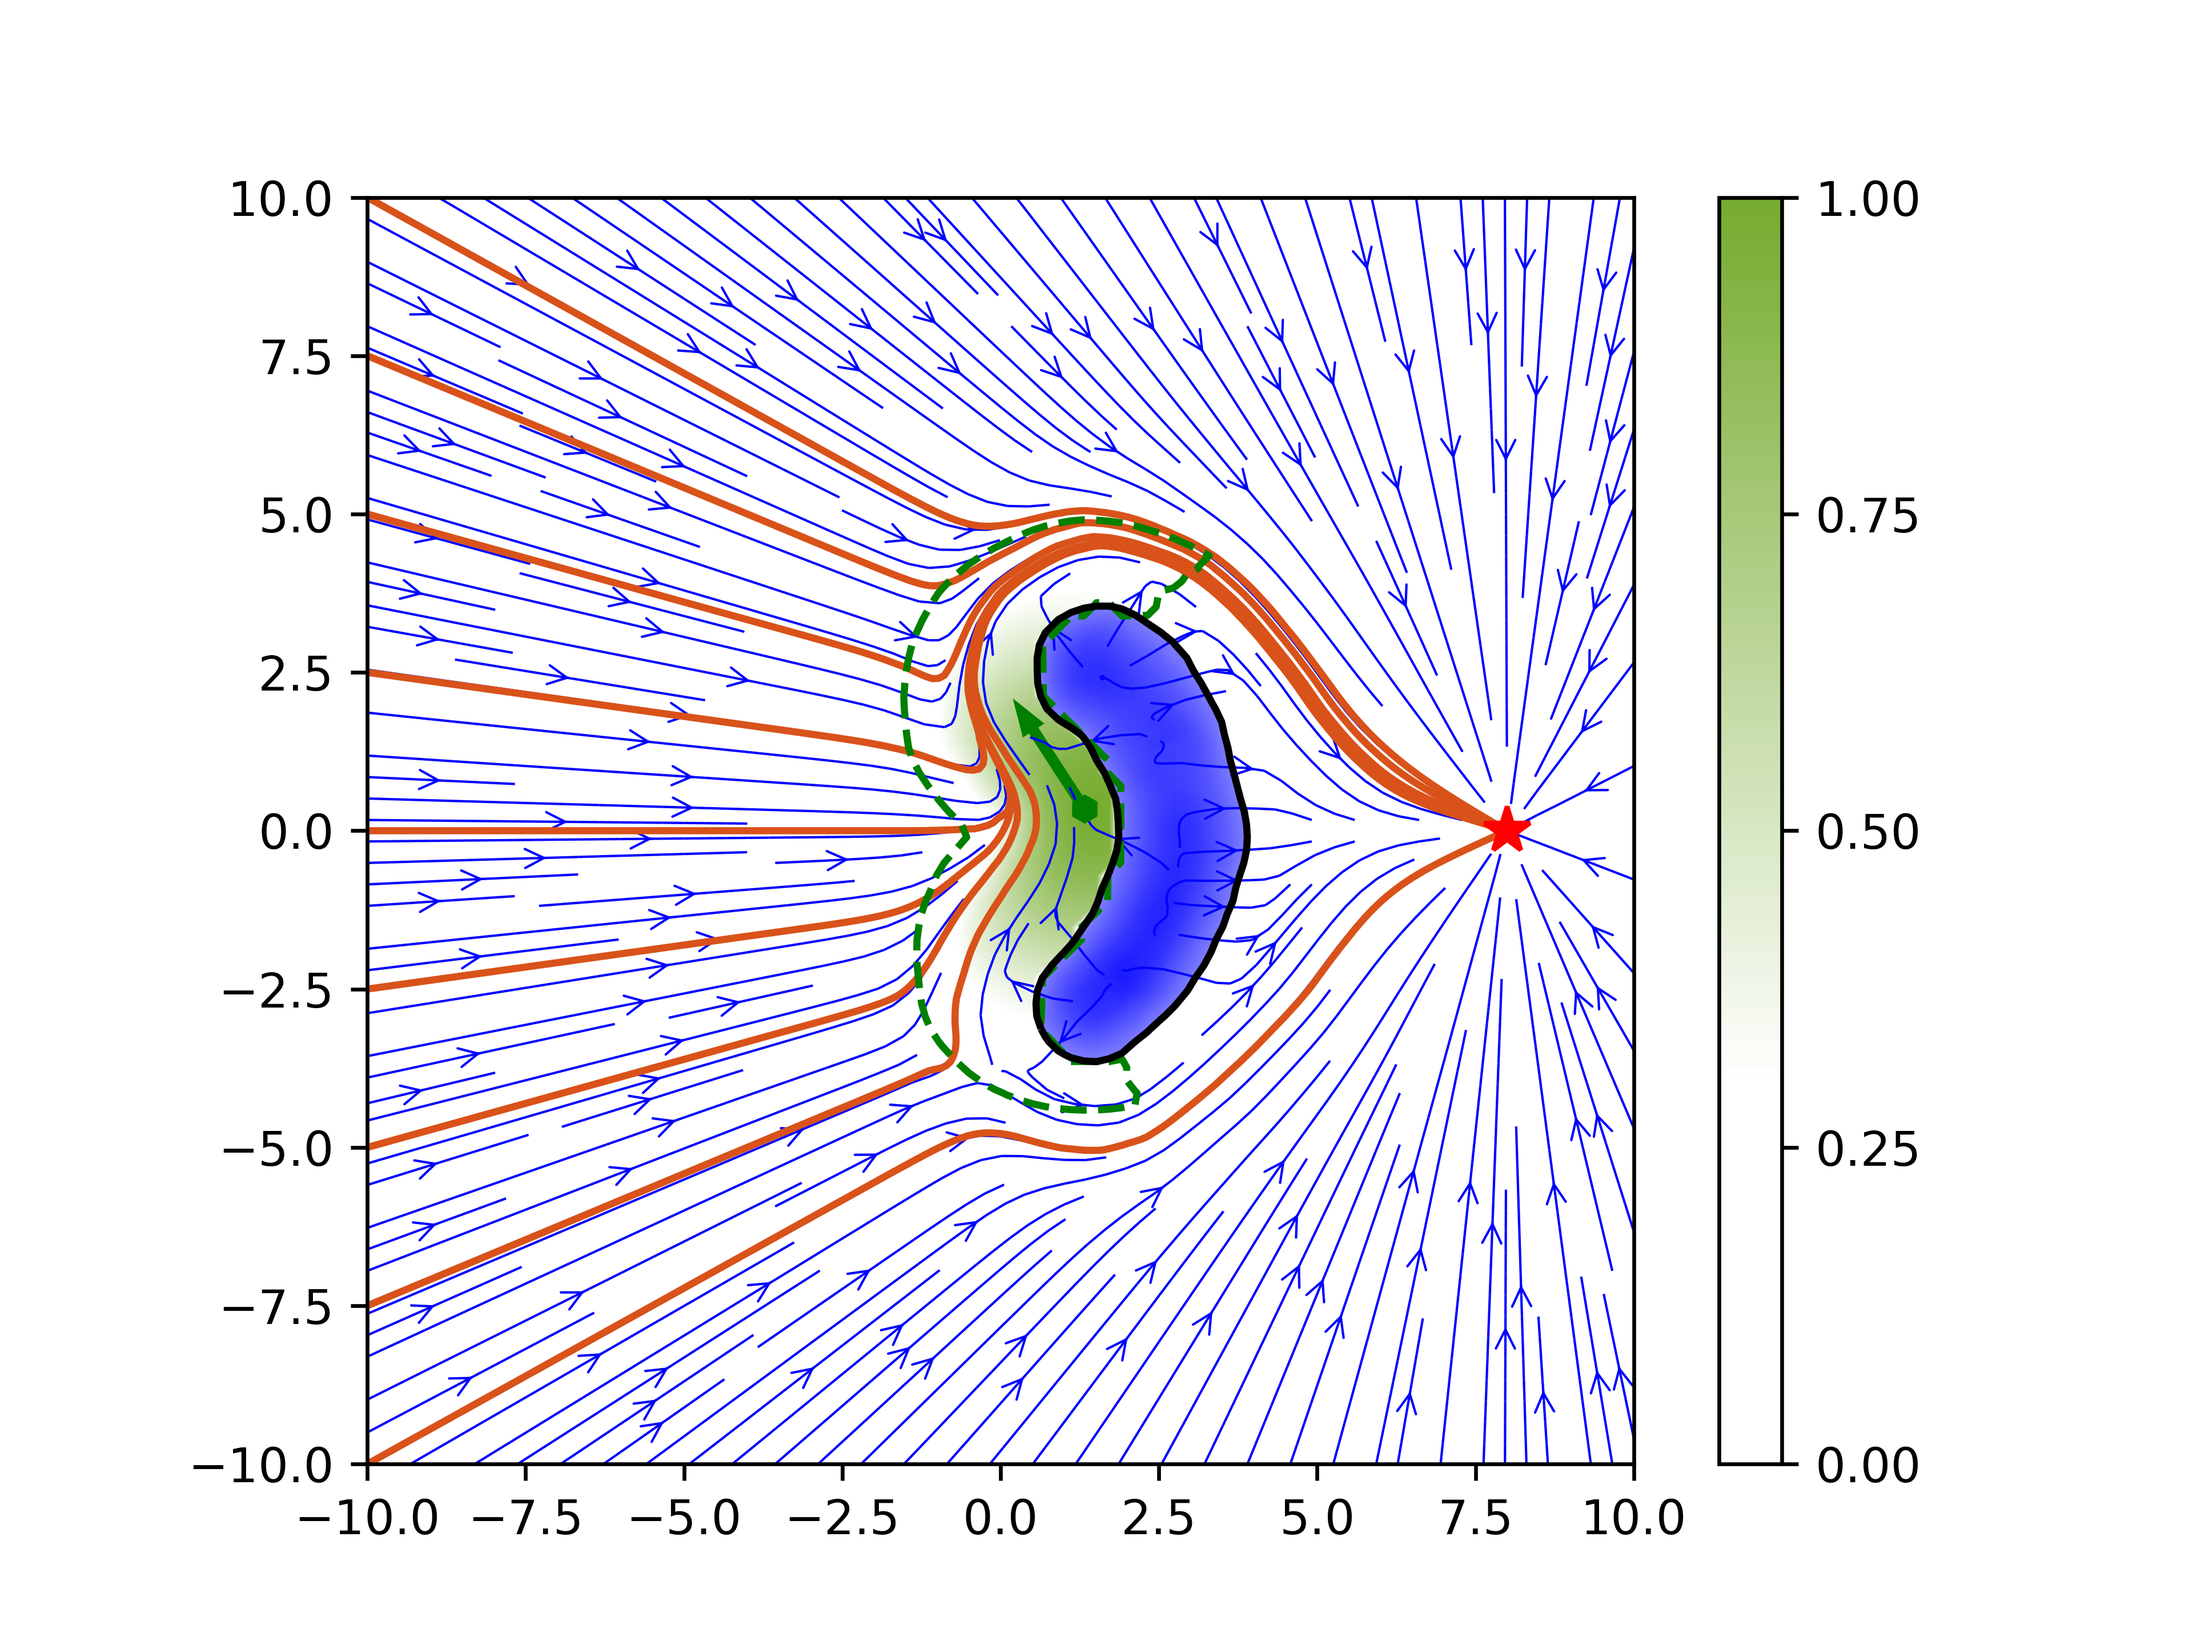
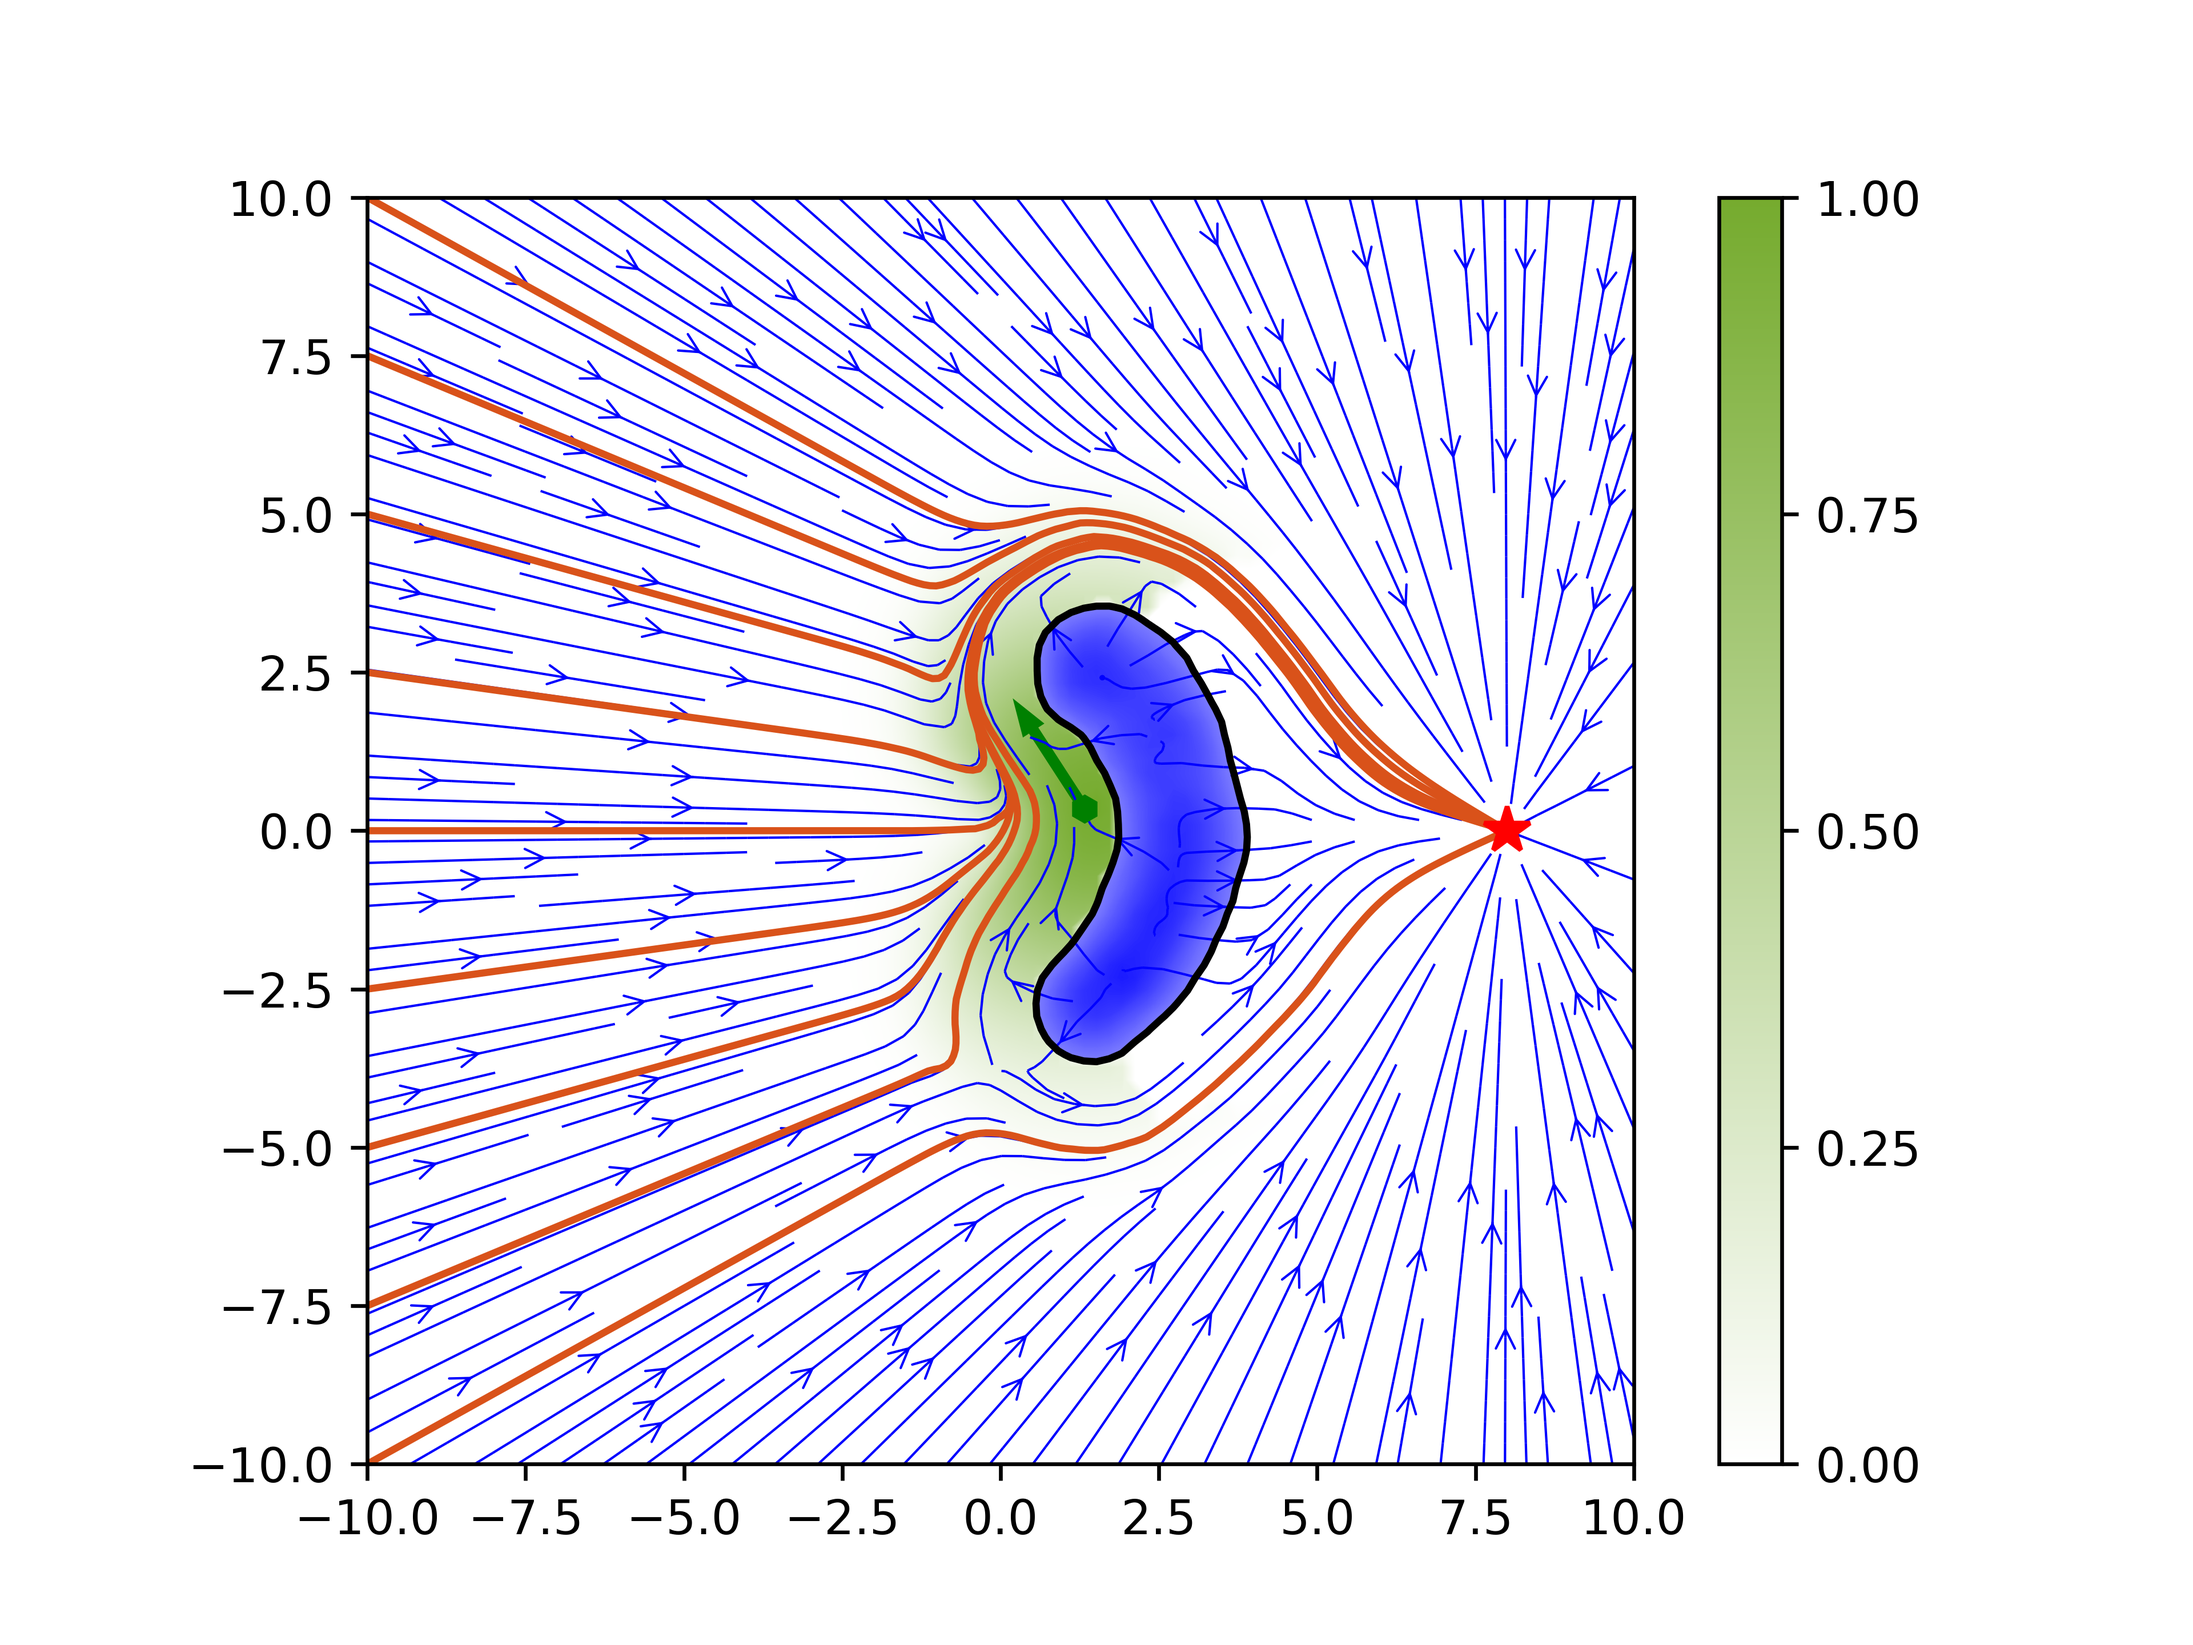
benchmarking again

Changed region(s): [[0.4062, 0.3125, 0.5625, 0.6875], [0.7812, 0.3125, 0.8125, 0.8125]]

diff --git a/python_scripts/ds_mppi/frankaIntegrator.py b/python_scripts/ds_mppi/frankaIntegrator.py
@@ -70,7 +70,7 @@ def main_loop():
     # DS1 = SEDS('content/ds/seds_sine10.mat', q_0.unsqueeze(1))
     # DS2 = SEDS('content/ds/seds_sine10.mat', q_f.unsqueeze(1))
 
-    q_f = DS1.q_goal.squeeze()
+    q_f = DS2.q_goal.squeeze()
     N_traj = config['integrator']['n_trajectories']
     dt_H = config['integrator']['horizon']
     dt_sim = config['integrator']['dt']
@@ -83,6 +83,7 @@ def main_loop():
     mppi_step = MPPI(q_0, q_f, dh_params, obs, dt_sim, dt_H, N_traj, DS_ARRAY, dh_a, nn_model, n_closest_obs)
     mppi_step.dst_thr = config['integrator']['collision_threshold']   # subtracted from actual distance (added threshsold)
     mppi_step.Policy.alpha_s *= 0
+    mppi_step.switch_DS_idx(1)
 
     ########################################
     ###     RUN MPPI AND SIMULATE        ###
@@ -124,11 +125,14 @@ def main_loop():
 
         status_msg = ''
         t_traj = time.time() - t_traj_start
-        if torch.norm(mppi_step.q_cur - mppi_step.qf) < 0.1:
-            mppi_step.switch_DS_idx(N_SUCCESS % 2)
 
-            #mppi_step.q_cur = q_0
-            #socket_send_state.send_pyobj(mppi_step.q_cur)
+        if torch.norm(mppi_step.q_cur - mppi_step.qf) < 0.1:
+            # mppi_step.switch_DS_idx(N_SUCCESS % 2)
+
+            mppi_step.q_cur = q_0
+            state_dict = {'q': mppi_step.q_cur, 'dq': mppi_step.q_cur*0, 'ds_idx': mppi_step.DS_idx}
+            socket_send_state.send_pyobj(state_dict)
+
             status = f'1: Goal reached in {N_ITER_TRAJ:3d} iterations ({t_traj:4.2f} seconds). ' \
                      f'Obs: {obstacles_data.shape[0]}, Top obs: {obstacles_data[0]}'
             print(status)
@@ -138,15 +142,16 @@ def main_loop():
 
             N_ITER_TRAJ = 0
             N_SUCCESS += 1
-            #time.sleep(1)
+            time.sleep(1)
             t_traj_start = time.time()
             # with open(fname, "a") as myfile:
             #     myfile.write(status+'\n')
 
         if t_traj >= 10:
+            # mppi_step.switch_DS_idx(N_SUCCESS % 2)
             mppi_step.q_cur = q_0
-            mppi_step.switch_DS_idx(N_SUCCESS % 2)
-            #socket_send_state.send_pyobj(mppi_step.q_cur)
+            state_dict = {'q': mppi_step.q_cur, 'dq': mppi_step.q_cur*0, 'ds_idx': mppi_step.DS_idx}
+            socket_send_state.send_pyobj(state_dict)
             status = f'0: Goal not reached in {N_ITER_TRAJ:3d} iterations ({t_traj:4.2f} seconds). ' \
                      f'Obs: {obstacles_data.shape[0]}, Top obs: {obstacles_data[0]}'
             print(status)

diff --git a/python_scripts/ds_mppi/scripts/plotDS_2d_ker.py b/python_scripts/ds_mppi/scripts/plotDS_2d_ker.py
@@ -134,19 +134,12 @@ if policy['mu_c'][0][0]<10:
     kernel_values[kernel_values > 0.98] = 1
 
     clr0 = np.array([1, 1, 1, 1])
+    #clr0 = np.array([.7, .8, .4, 1])
+
     clr2 = np.array([.46, .67, .18, 1])
     nrange = 500
     carr = np.linspace(clr0, clr2, nrange)
-    # carr = np.zeros((1000, 4))
-    # carr[:, 3] = 1
-    # carr[0:nrange] = np.linspace(clr0, clr2, nrange)
-    # carr[nrange:] = clr2
-
-    # scale_arr = 1/(1+np.exp(-np.linspace(-10, 100, nrange)))
-    # carr1 = np.linspace(clr0, clr2, nrange)
-    # carr2 = np.linspace(clr1, clr2, nrange)
-    # for i in range(nrange):
-    #     carr[i] = carr1[i]*(1-scale_arr[i]) + carr2[i]*(scale_arr[i])
+    #carr[0] = [1, 1, 1, 1]
     plt.contourf(points_grid[0], points_grid[1], kernel_values,
                  levels=nrange,
                  cmap=ListedColormap(carr), vmin=0, vmax=1)

diff --git a/python_scripts/mlp_learn/pytorch_diff_playground.py b/python_scripts/mlp_learn/pytorch_diff_playground.py
@@ -1,0 +1,31 @@
+import torch
+import torch.nn.functional as F
+from functools import partial
+from functorch import vmap, vjp
+from functorch import jacrev
+from functorch.compile import aot_function
+
+import numpy as np
+
+def fwd(x):
+    x = x.unsqueeze(0)
+    return x.T @ x
+
+tensor_args = {'device': 'cpu', 'dtype': torch.float32}
+input = torch.tensor([1, 3]).to(**tensor_args)
+
+with torch.enable_grad():
+    input.requires_grad = True
+    input.grad = None
+
+    output = fwd(input)
+
+    m = torch.zeros((input.shape[0], output.shape[1]))
+    m[0, 0] = 1
+    m[1, 1] = 1
+
+    print(m)
+    output.backward(m)
+    jac = input.grad.detach()
+
+print(jac)

diff --git a/python_scripts/mlp_learn/run_sdf.py b/python_scripts/mlp_learn/run_sdf.py
@@ -60,8 +60,8 @@ for i in range(N_REP):
     for i in range(H):
         tens_input.requires_grad = False
         tens_input = tens_input+0.1
-        #y_pred = nn_model.compute_signed_distance_wgrad(tens_input, 'closest')
-        y_pred = nn_model.dist_grad_closest(tens_input)
+        y_pred = nn_model.compute_signed_distance_wgrad(tens_input, 'closest')
+        #y_pred = nn_model.dist_grad_closest(tens_input)
         #y_pred = nn_model.model.forward(tens_input)
         #y_pred = nn_model.compute_signed_distance_wgrad2(tens_input)
         # y_pred = aot_fn(tens_input)

diff --git a/python_scripts/ds_mppi/pbSim.py b/python_scripts/ds_mppi/pbSim.py
@@ -106,7 +106,7 @@ def main_loop():
             h = 1000
             w = 1000
             k = 3
-            camera_data = p.getCameraImage(k*h, k*w, renderer=p.ER_TINY_RENDERER, shadow=1, lightDirection=[5, 5, 5],)
+            camera_data = p.getCameraImage(k*h, k*w, renderer=p.ER_TINY_RENDERER, shadow=1, lightDirection=[5, -5, 5],)
             # save rgb image to file
             im = Image.fromarray(camera_data[2])
             im.save(f'screenshots/screen{int(time.time())}.png')

diff --git a/python_scripts/ds_mppi/obstacleStreamerBenchmark.py b/python_scripts/ds_mppi/obstacleStreamerBenchmark.py
@@ -65,7 +65,7 @@ def main_loop():
         # get robot state
         state, state_recv_status = zmq_try_recv(state, socket_receive_state)
 
-        if state_recv_status and (state - q_0).norm().numpy() < 1e-6:
+        if state_recv_status and (state['q'] - q_0).norm().numpy() < 1e-6:
             obs -= torch.tensor([0, 0, 0.05, 0])
             moved = True
         # send obstacles
